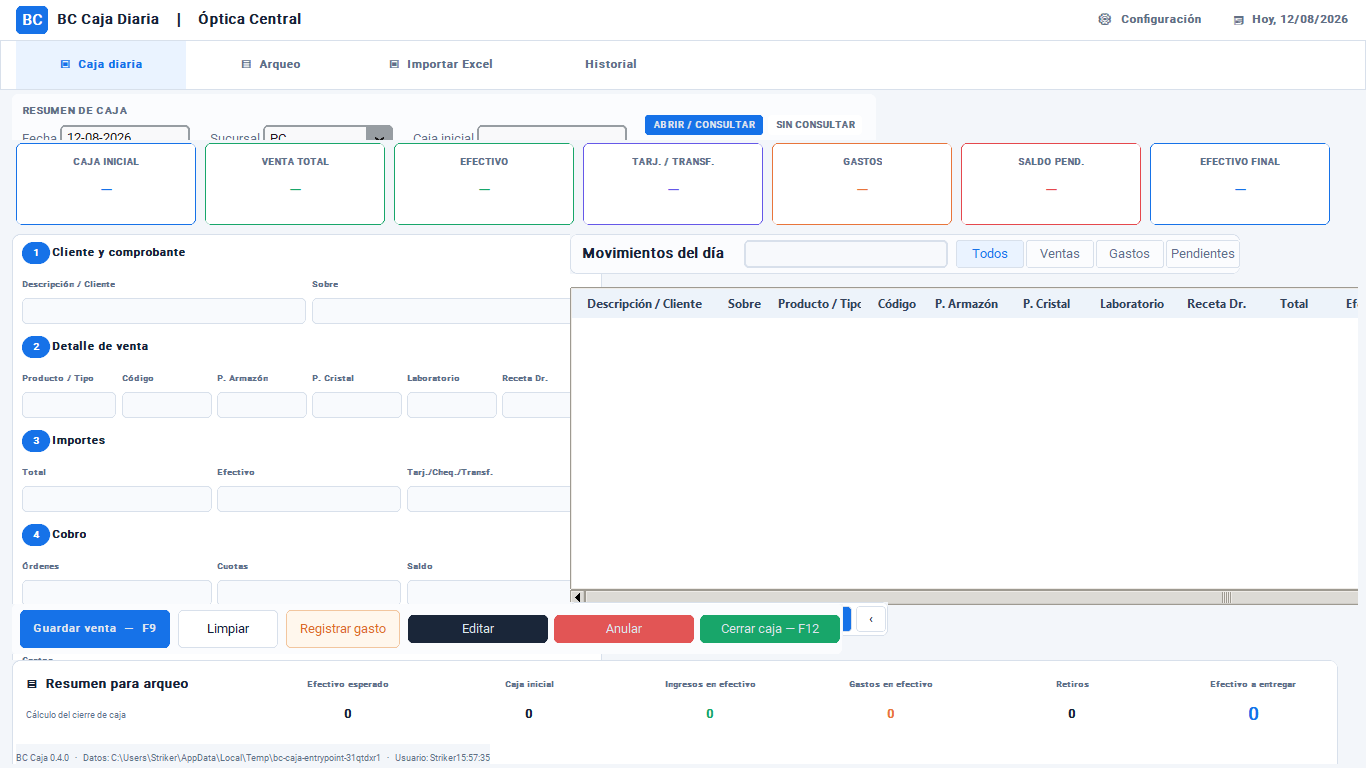
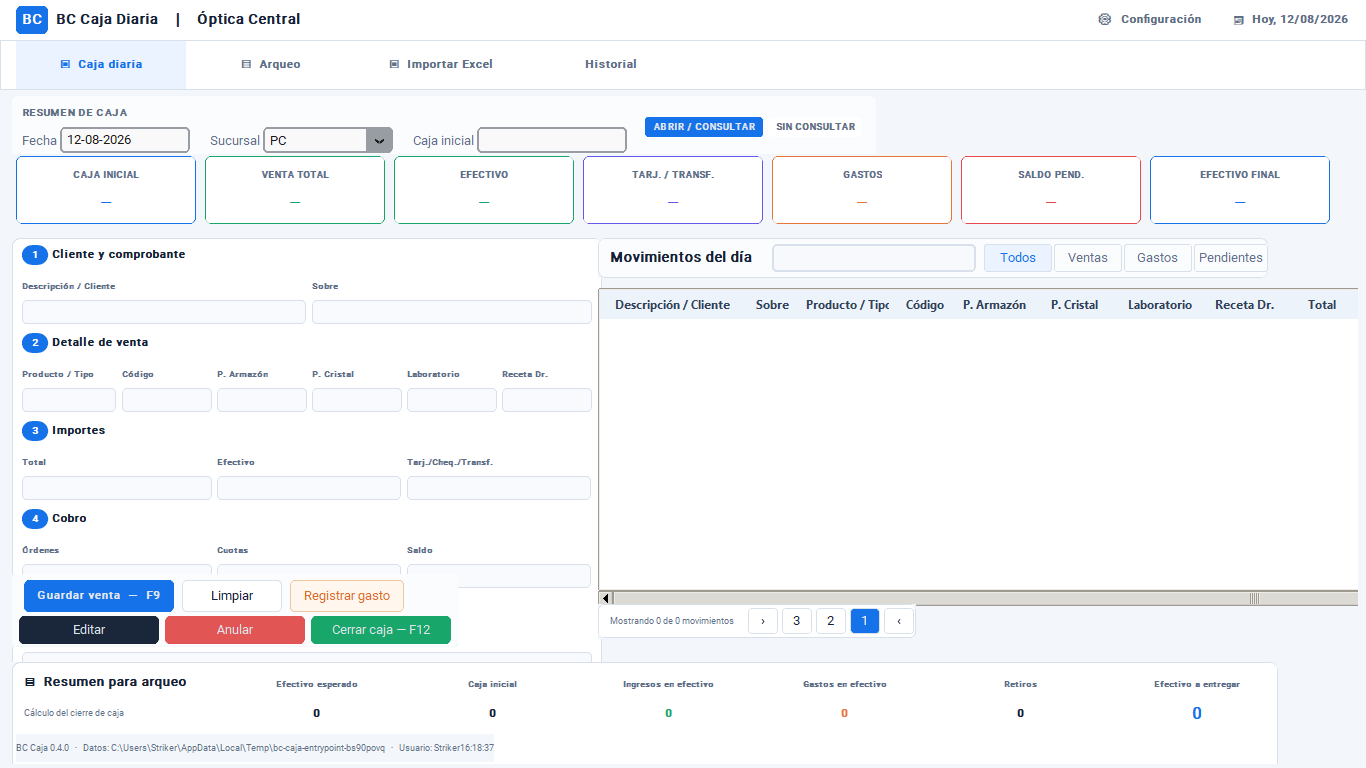
fix(caja): eliminate UX-006 layout overlaps

diff --git a/CajaDiaria.py b/CajaDiaria.py
@@ -548,7 +548,7 @@ def abrir_caja_diaria(ventana_padre, controller=None):
     ctk.CTkLabel(
         barra_superior, text="BC", width=32, height=28, corner_radius=6,
         fg_color=color_azul, text_color="#FFFFFF",
-        font=ctk.CTkFont(size=15, weight="bold"), anchor="center",
+        font=ctk.CTkFont(size=14, weight="bold"), anchor="center",
     ).pack(side="left", padx=(16, 8))
     ctk.CTkLabel(
         barra_superior, text="BC Caja Diaria   │   Óptica Central",
@@ -766,11 +766,11 @@ def abrir_caja_diaria(ventana_padre, controller=None):
     )
     for indice_seccion, (numero, titulo, columnas) in enumerate(secciones_formulario):
         seccion = ctk.CTkFrame(formulario, fg_color="transparent", corner_radius=0)
-        seccion.grid(row=indice_seccion, column=0, sticky="ew", padx=10, pady=(5, 1))
+        seccion.grid(row=indice_seccion, column=0, sticky="ew", padx=10, pady=(3, 0))
         for columna in range(max(1, len(columnas))):
             seccion.grid_columnconfigure(columna, weight=1, uniform=f"sec{indice_seccion}")
         ctk.CTkLabel(
-            seccion, text=numero, width=22, height=22, corner_radius=11,
+            seccion, text=numero, width=20, height=20, corner_radius=10,
             fg_color=color_azul, text_color="#FFFFFF",
             font=ctk.CTkFont(size=10, weight="bold"),
         ).grid(row=0, column=0, sticky="w", pady=(0, 3))
@@ -784,7 +784,7 @@ def abrir_caja_diaria(ventana_padre, controller=None):
                 font=ctk.CTkFont(size=8, weight="bold"),
             ).grid(row=1, column=columna, sticky="ew", padx=(0 if columna == 0 else 5, 0))
             campo = ctk.CTkEntry(
-                seccion, width=ancho, height=27, fg_color="#F8FAFD",
+                seccion, width=ancho, height=24, fg_color="#F8FAFD",
                 border_width=1, border_color=color_borde_suave, text_color=color_texto,
                 font=ctk.CTkFont(size=9),
             )
@@ -821,10 +821,10 @@ def abrir_caja_diaria(ventana_padre, controller=None):
         ("final", "EFECTIVO FINAL", color_azul),
     ):
         tarjeta = ctk.CTkFrame(
-            zona_estado, width=181, height=82, fg_color="#FFFFFF", corner_radius=7,
+            zona_estado, width=181, height=68, fg_color="#FFFFFF", corner_radius=7,
             border_width=1, border_color=color,
         )
-        tarjeta.pack(side="left", padx=4, pady=3)
+        tarjeta.pack(side="left", padx=4, pady=2)
         tarjeta.pack_propagate(False)
         ctk.CTkLabel(
             tarjeta, text=titulo, text_color=color_suave,
@@ -832,7 +832,7 @@ def abrir_caja_diaria(ventana_padre, controller=None):
         ).pack(padx=3, pady=(5, 0))
         valor = ctk.CTkLabel(
             tarjeta, text="—", text_color=color,
-            font=ctk.CTkFont(size=15, weight="bold"),
+            font=ctk.CTkFont(size=14, weight="bold"),
         )
         valor.pack(padx=3, pady=(0, 4))
         etiquetas_kpi[clave] = valor
@@ -1192,8 +1192,8 @@ def abrir_caja_diaria(ventana_padre, controller=None):
         tab_manual, fg_color="#FFFFFF", corner_radius=9,
         border_width=1, border_color=color_borde_suave,
     )
-    titulo_arqueo = ctk.CTkFrame(resumen_dia, fg_color="transparent", width=230)
-    titulo_arqueo.pack(side="left", fill="y", padx=(14, 8), pady=10)
+    titulo_arqueo = ctk.CTkFrame(resumen_dia, fg_color="transparent", width=205)
+    titulo_arqueo.pack(side="left", fill="y", padx=(12, 6), pady=6)
     titulo_arqueo.pack_propagate(False)
     ctk.CTkLabel(
         titulo_arqueo, text="▤  Resumen para arqueo", anchor="w",
@@ -1213,8 +1213,8 @@ def abrir_caja_diaria(ventana_padre, controller=None):
         ("retiros", "Retiros", "=", color_texto, False),
         ("entregar", "Efectivo a entregar", "", color_azul, True),
     ):
-        bloque = ctk.CTkFrame(resumen_dia, fg_color="transparent", width=165, height=68)
-        bloque.pack(side="left", fill="y", padx=2, pady=7)
+        bloque = ctk.CTkFrame(resumen_dia, fg_color="transparent", width=160, height=54)
+        bloque.pack(side="left", fill="y", padx=2, pady=5)
         bloque.pack_propagate(False)
         ctk.CTkLabel(
             bloque, text=titulo, text_color=color_suave,
@@ -1222,7 +1222,7 @@ def abrir_caja_diaria(ventana_padre, controller=None):
         ).pack(pady=(3, 0))
         valor = ctk.CTkLabel(
             bloque, text="0", text_color=color,
-            font=ctk.CTkFont(size=18 if destacado else 12, weight="bold"),
+            font=ctk.CTkFont(size=16 if destacado else 11, weight="bold"),
         )
         valor.pack(pady=(2, 0))
         etiquetas_resumen[clave] = valor
@@ -1252,6 +1252,10 @@ def abrir_caja_diaria(ventana_padre, controller=None):
         etiquetas_resumen["entregar"].configure(text=formatear_monto(totales.expected_cash))
     acciones = ctk.CTkFrame(tab_manual, fg_color=color_panel, corner_radius=6)
     acciones.pack(fill="x", padx=6, pady=(1, 2))
+    acciones_primarias = ctk.CTkFrame(acciones, fg_color="transparent")
+    acciones_primarias.pack(fill="x", padx=4, pady=(3, 0))
+    acciones_secundarias = ctk.CTkFrame(acciones, fg_color="transparent")
+    acciones_secundarias.pack(fill="x", padx=4, pady=(1, 3))
     boton_abrir = ctk.CTkButton(
         estado_operativo, text="ABRIR / CONSULTAR", command=abrir_o_consultar,
         width=118, height=21, corner_radius=4, fg_color=color_azul,
@@ -1266,36 +1270,36 @@ def abrir_caja_diaria(ventana_padre, controller=None):
     for clave in ("fecha", "unidad", "caja_inicial"):
         campos_manual[clave].bind("<FocusIn>", mostrar_boton_abrir, add="+")
     boton_guardar = ctk.CTkButton(
-        acciones, text="Guardar venta  —  F9", command=guardar_manual,
-        width=150, height=38, fg_color=color_azul, hover_color="#0F5FC7",
+        acciones_primarias, text="Guardar venta  —  F9", command=guardar_manual,
+        width=150, height=32, fg_color=color_azul, hover_color="#0F5FC7",
         font=ctk.CTkFont(size=11, weight="bold"),
     )
-    boton_guardar.pack(side="left", padx=(8, 4), pady=6)
+    boton_guardar.pack(side="left", padx=(8, 4), pady=3)
     ctk.CTkButton(
-        acciones, text="Limpiar", command=limpiar_operacion, width=100, height=38,
+        acciones_primarias, text="Limpiar", command=limpiar_operacion, width=100, height=32,
         fg_color="#FFFFFF", text_color=color_texto, border_width=1,
         border_color=color_borde_suave, hover_color="#F1F5FA",
-    ).pack(side="left", padx=4, pady=6)
+    ).pack(side="left", padx=4, pady=3)
     ctk.CTkButton(
-        acciones, text="Registrar gasto",
-        command=lambda: campos_manual["gastos"].focus_set(), width=115, height=38,
+        acciones_primarias, text="Registrar gasto",
+        command=lambda: campos_manual["gastos"].focus_set(), width=115, height=32,
         fg_color="#FFF7ED", text_color="#D96C2C", border_width=1,
         border_color="#F2C69F", hover_color="#FFEBD7",
-    ).pack(side="left", padx=4, pady=6)
+    ).pack(side="left", padx=4, pady=3)
     ctk.CTkButton(
-        acciones, text="Editar", command=editar_seleccionado,
+        acciones_secundarias, text="Editar", command=editar_seleccionado,
         fg_color=COLOR_PANEL_SECUNDARIO[1], hover_color=COLOR_PRIMARIO_HOVER,
     ).pack(side="left", padx=3)
     ctk.CTkButton(
-        acciones, text="Anular", command=anular_seleccionado,
+        acciones_secundarias, text="Anular", command=anular_seleccionado,
         fg_color=COLOR_ROJO, hover_color="#B63D49",
     ).pack(side="left", padx=3)
     boton_cancelar = ctk.CTkButton(
-        acciones, text="Cancelar edición", command=cancelar_edicion,
+        acciones_secundarias, text="Cancelar edición", command=cancelar_edicion,
         fg_color=COLOR_PANEL_SECUNDARIO[1], hover_color=COLOR_PRIMARIO_HOVER,
     )
     ctk.CTkButton(
-        acciones, text="Cerrar caja — F12", command=cerrar_caja,
+        acciones_secundarias, text="Cerrar caja — F12", command=cerrar_caja,
         fg_color=color_verde, hover_color="#128654",
     ).pack(side="right", padx=3)
 
@@ -1354,24 +1358,24 @@ def abrir_caja_diaria(ventana_padre, controller=None):
         marco_grilla, pie_movimientos, resumen_dia, acciones, pie,
     ):
         bloque.pack_forget()
-    cabecera.configure(width=1330, height=42)
-    cabecera.place(x=4, y=2)
-    zona_estado.configure(width=1330, height=88)
-    zona_estado.place(x=4, y=48)
-    formulario.configure(width=550, height=365)
-    formulario.place(x=4, y=142)
-    acciones.configure(width=550, height=50)
-    acciones.place(x=4, y=512)
-    toolbar_movimientos.configure(width=772, height=48)
-    toolbar_movimientos.place(x=562, y=142)
-    marco_grilla.configure(width=772, height=310)
-    marco_grilla.place(x=562, y=195)
-    pie_movimientos.configure(width=772, height=40)
-    pie_movimientos.place(x=562, y=510)
-    resumen_dia.configure(width=1330, height=82)
-    resumen_dia.place(x=4, y=568)
+    cabecera.configure(width=1330, height=50)
+    cabecera.place(x=4, y=4)
+    zona_estado.configure(width=1330, height=74)
+    zona_estado.place(x=4, y=62)
+    formulario.configure(width=570, height=330)
+    formulario.place(x=4, y=146)
+    acciones.configure(width=570, height=76)
+    acciones.place(x=4, y=482)
+    toolbar_movimientos.configure(width=744, height=44)
+    toolbar_movimientos.place(x=590, y=146)
+    marco_grilla.configure(width=744, height=310)
+    marco_grilla.place(x=590, y=196)
+    pie_movimientos.configure(width=744, height=38)
+    pie_movimientos.place(x=590, y=512)
+    resumen_dia.configure(width=1330, height=66)
+    resumen_dia.place(x=4, y=570)
     pie.configure(width=1322, height=18)
-    pie.place(x=8, y=652)
+    pie.place(x=8, y=642)
     def actualizar_reloj():
         if reloj.winfo_exists():
             reloj.configure(text=datetime.now().strftime("%H:%M:%S"))

diff --git a/tests/caja_diaria/test_ux006_reference_contract.py b/tests/caja_diaria/test_ux006_reference_contract.py
@@ -22,11 +22,13 @@ class CashDayUX006ReferenceContractTests(unittest.TestCase):
             '"GASTOS"',
             '"SALDO PEND."',
             '"EFECTIVO FINAL"',
-            'cabecera.place(x=4, y=2)',
-            'formulario.place(x=4, y=142)',
-            'toolbar_movimientos.place(x=562, y=142)',
-            'pie_movimientos.place(x=562, y=510)',
-            'resumen_dia.place(x=4, y=568)',
+            'cabecera.place(x=4, y=4)',
+            'formulario.place(x=4, y=146)',
+            'toolbar_movimientos.place(x=590, y=146)',
+            'pie_movimientos.place(x=590, y=512)',
+            'resumen_dia.place(x=4, y=570)',
+            'acciones_primarias = ctk.CTkFrame(acciones',
+            'acciones_secundarias = ctk.CTkFrame(acciones',
         ):
             self.assertIn(text, source)
 

diff --git a/artifacts/BC-CAJA-UX-006/ARTIFACT_CONSISTENCY.md b/artifacts/BC-CAJA-UX-006/ARTIFACT_CONSISTENCY.md
@@ -2,7 +2,7 @@
 
 Status: PASS
 
-Canonical reference, prior iterations, final populated-state capture, real-entrypoint capture, test evidence, comparison, Command Center report, workflow, and recovery evidence are present.
+Canonical reference, prior iterations, corrected real-entrypoint capture, test evidence, comparison, Command Center report, workflow, and recovery evidence are present.
 
 ## SHA-256 inventory
 
@@ -11,15 +11,16 @@ The inventory intentionally excludes this self-referential file.
 - COMMAND_CENTER_REPORT.md: 6e36c24237dceac4f03923b04998b698c61ac16546436c43b365599403d550b9
 - correction-1.png: 7fa32b3246b6291075298a4f704a974acdb65d83858357b61ae806b5dd8785a9
 - entrypoint-correction-1.png: 986b0925c845b72322088bbfa4d3d2ede3a36171bbddf18fb2f8c139c95185c5
-- entrypoint-final-1366x768.png: 718fb09a2eb63850c018e19246c5516939497e491c6876875ba9227b54e285bb
+- entrypoint-final-1366x768.png: c7d4ab76600262e7bda0aa9345e727282de5d0e31467666f6ba8ad14d36b977d
+- entrypoint-layout-fix-1366x768.png: 0a6a2c4ed99039170a61fd3cdb4a9cf4a546a49c9c82d09fae1c0d75865bfd56
 - iteration-1.png: 6fa445537333ddb9f2c26914476282bca75b33dd9193b88b0f4df1513c7284a8
 - iteration-2.png: c020a9e21d78eef8d3ae3e0d0b9ba367d22bdc5016e74e3f5a25be6ffa203c05
 - iteration-3.png: 6b7ab2ae8d4eae9cdda8c2b2c60d607390763c231c31b15e861edd574048af3b
 - layout-corrected-1366x768.png: 745722d4a4bb247be40740129232c08170842174caa9af7c4ec67b553d841b6d
 - layout-final-1366x768.png: 06cc7c9f877d25f9f7f1dd0936553ffdac20a17341f4d9fcdb02431ac8e1fd23
 - reference-canonical.png: b2e11e22cc5e8f23dd0859329e68f404874840d3912e1987f440ac6994305e4a
-- SAFE_CLOSURE_EVIDENCE.md: 4c4d74805bf68ee23bc6263edc492d8828ed6f2f091d43e95d8d1252935c80a6
-- SUMMARY.md: 46994714c85379d2e712a26207d49d1b31f8097f55177fc8eabcdcb00ff1e3b1
-- TEST_EVIDENCE.md: c7c825a4cf97239dfa6e7fd4b1e76f8f13cf43bf9f235d86fb38ba6f8033a6f8
-- VISUAL_COMPARISON.md: bb8352b6c4f41c2f663f7f84315f1b9b0866c53327cba6fa01a7fec8088cc8f5
+- SAFE_CLOSURE_EVIDENCE.md: 58ff7fb57235b639e87121b7ae130fe0365856eaa82c05ee2392fceb213aaa33
+- SUMMARY.md: 9c439861ad775d756021616c6538c086f8389065df322fc0e8eacd1613a622b2
+- TEST_EVIDENCE.md: 8d4daea16dab07bc34a7c8b7bf2eb57ad3c9fd1f85b12ba55e87392d76c4e6f7
+- VISUAL_COMPARISON.md: e96201fd1a6410c26c4ea91fae918fbc5bf7677025c8ebe4ce273acf0c194675
 - WORKFLOW.json: 9529a7fa105c432a25b3d1b0903e1d4740cb2fd017ca889411a442df188384b6

diff --git a/artifacts/BC-CAJA-UX-006/SUMMARY.md b/artifacts/BC-CAJA-UX-006/SUMMARY.md
@@ -6,8 +6,12 @@
 - Working HEAD: afa3371ad9f70a5a9679a2ab03db338b40b6d257
 - Real entrypoint: bc_caja.main([])
 - Final capture: entrypoint-final-1366x768.png
-- Final capture SHA-256: 718fb09a2eb63850c018e19246c5516939497e491c6876875ba9227b54e285bb
+- Final capture SHA-256: c7d4ab76600262e7bda0aa9345e727282de5d0e31467666f6ba8ad14d36b977d
 - Synthetic populated-state capture: layout-final-1366x768.png
 - Populated-state SHA-256: 06cc7c9f877d25f9f7f1dd0936553ffdac20a17341f4d9fcdb02431ac8e1fd23
 
 The principal screen now follows the canonical two-column composition: clean header/navigation, seven KPI cards, five-section form, movement toolbar/table/pagination, and horizontal cash-count formula. Operational behavior remains delegated to the existing controller/domain/SQLite stack.
+
+## Layout overlap correction
+
+The real 1366x768 entrypoint now uses bounded left/right columns with a 16 px gutter, two contained action rows, a 12 px separation before the compact bottom cash-count strip, and separated header/KPI bands. No domain or persistence behavior changed.

diff --git a/artifacts/BC-CAJA-UX-006/VISUAL_COMPARISON.md b/artifacts/BC-CAJA-UX-006/VISUAL_COMPARISON.md
@@ -6,5 +6,6 @@ The final implementation corrects the structural differences: compact branded he
 
 The canvas remains #F3F6FA; white is limited to cards, fields, table, and bounded panels. This preserves luminosity without a full-screen white surface.
 
-Final real-entrypoint capture: entrypoint-final-1366x768.png (718fb09a2eb63850c018e19246c5516939497e491c6876875ba9227b54e285bb).
+Final real-entrypoint capture: entrypoint-final-1366x768.png (c7d4ab76600262e7bda0aa9345e727282de5d0e31467666f6ba8ad14d36b977d).
 Final populated-state capture: layout-final-1366x768.png (06cc7c9f877d25f9f7f1dd0936553ffdac20a17341f4d9fcdb02431ac8e1fd23).
+The overlap correction establishes explicit non-intersecting bounds: left content x=4..574, right content x=590..1334, actions y=482..558, and cash-count summary y=570..636. Header controls and KPI cards occupy separate bands.

diff --git a/artifacts/BC-CAJA-UX-006/TEST_EVIDENCE.md b/artifacts/BC-CAJA-UX-006/TEST_EVIDENCE.md
@@ -8,3 +8,6 @@
 - Result: BC_CAJA_REAL_ENTRYPOINT_CAPTURE_OK, 1366x768, result=0
 
 All data used for capture was empty or synthetic and stored in a temporary directory.
+- Layout-overlap correction focal suite: 17 passed.
+- Post-correction Caja regression: 66 passed, 4 subtests passed.
+- Post-correction full regression: 66 passed, 4 subtests passed.

diff --git a/artifacts/BC-CAJA-UX-006/SAFE_CLOSURE_EVIDENCE.md b/artifacts/BC-CAJA-UX-006/SAFE_CLOSURE_EVIDENCE.md
@@ -9,3 +9,6 @@
 - Full Caja regression: PASS.
 - Command Center workflow preserved unedited in its canonical INVALIDATED state.
 - Artifact consistency: recorded separately.
+
+- Real-entrypoint overlap correction at 1366x768: PASS.
+- Left/right panel gutter and bottom-summary separation: PASS.
